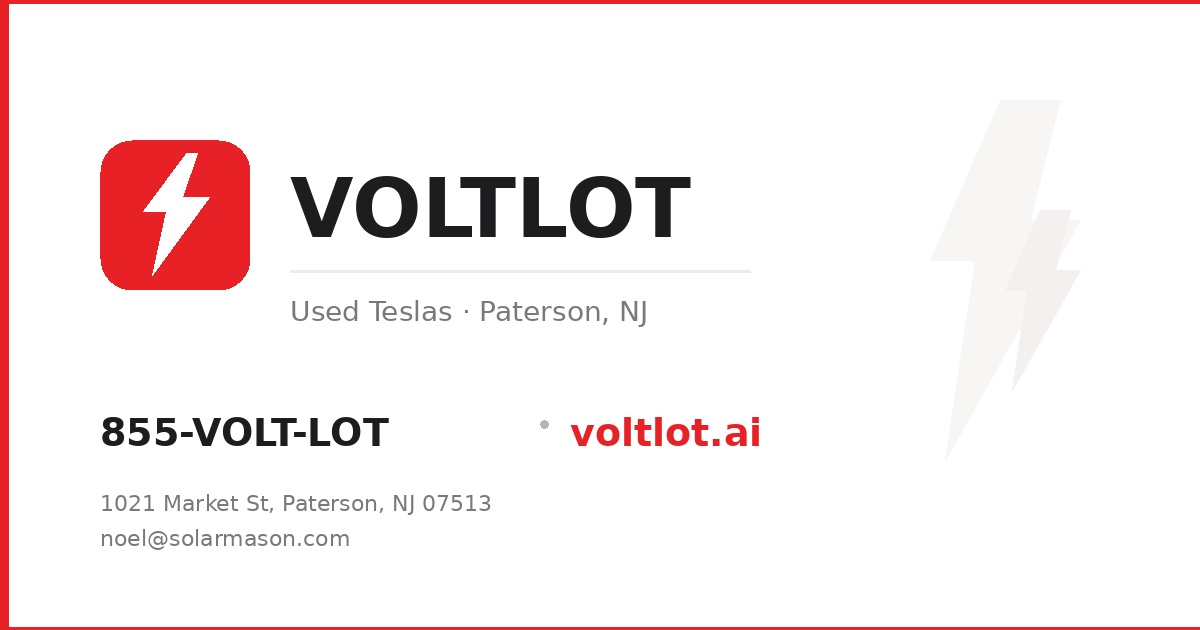
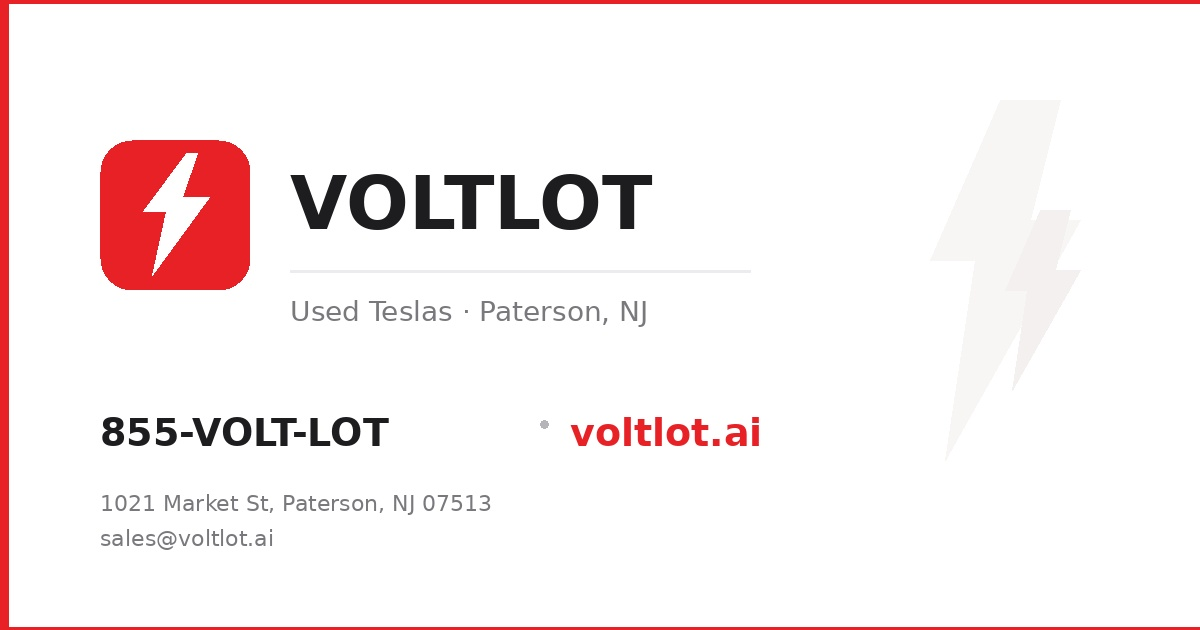
Add files via upload

Changed region(s): [[0.2467, 0.2714, 0.5858, 0.3921], [0.0617, 0.8444, 0.3083, 0.8746]]

diff --git a/404.html b/404.html
@@ -64,7 +64,7 @@
   "image": "https://voltlot.ai/og-image.jpg",
   "description": "NJ's largest used Tesla dealer. 60 battery-verified Teslas under $30K with Free Supercharging models available.",
   "telephone": "+1-855-865-8568",
-  "email": "noel@solarmason.com",
+  "email": "sales@voltlot.ai",
   "address": {
     "@type": "PostalAddress",
     "streetAddress": "1021 Market St",
@@ -897,7 +897,7 @@ input,textarea,select{font:inherit;color:inherit;background:transparent;border:0
           </button>
 
           <div style="font-size:11px;color:var(--text-3);text-align:center;line-height:1.6;padding-bottom:20px">
-            Your info goes directly to <strong style="color:var(--text)">noel@solarmason.com</strong>. Noel calls you within 2 hours with a firm number. Free pickup within 100 mi of Paterson.
+            Your info goes directly to <strong style="color:var(--text)">sales@voltlot.ai</strong>. Noel calls you within 2 hours with a firm number. Free pickup within 100 mi of Paterson.
           </div>
         </div>
 
@@ -1071,7 +1071,7 @@ input,textarea,select{font:inherit;color:inherit;background:transparent;border:0
           <div class="list-group">
             <a href="tel:8558658568" class="list-item" style="text-decoration:none;color:inherit"><div class="ico" style="background:var(--good)"><svg viewBox="0 0 16 16" fill="none" stroke="currentColor" stroke-width="2" stroke-linecap="round" stroke-linejoin="round"><path d="M3 3a1.5 1.5 0 011.5-1.5h1l1.5 3.5-2 1a8 8 0 004 4l1-2 3.5 1.5v1A1.5 1.5 0 0112 12 10 10 0 013 3z"/></svg></div><div class="t">Call 855-VOLT-LOT</div><div style="font-size:11px;color:var(--text-3)">Mon–Sat 9am–7pm</div></a>
             <a href="sms:8558658568" class="list-item" style="text-decoration:none;color:inherit"><div class="ico" style="background:var(--blue)"><svg viewBox="0 0 16 16" fill="none" stroke="currentColor" stroke-width="2" stroke-linecap="round" stroke-linejoin="round"><path d="M2 4a2 2 0 012-2h8a2 2 0 012 2v5a2 2 0 01-2 2H6l-3 3v-3H4a2 2 0 01-2-2V4z"/><path d="M5 6h6M5 9h3"/></svg></div><div class="t">Text us</div><div style="font-size:11px;color:var(--text-3)">Quick questions</div></a>
-            <a href="mailto:noel@solarmason.com" class="list-item" style="text-decoration:none;color:inherit"><div class="ico" style="background:#FF9F0A"><svg viewBox="0 0 16 16" fill="none" stroke="currentColor" stroke-width="2" stroke-linecap="round" stroke-linejoin="round"><rect x="2" y="3" width="12" height="10" rx="1.5"/><path d="M2 3l6 5 6-5"/></svg></div><div class="t">Email noel@solarmason.com</div><div class="chev"><svg viewBox="0 0 10 10" fill="none" stroke="currentColor" stroke-width="2"><path d="M3 1l4 4-4 4"/></svg></div></a>
+            <a href="mailto:sales@voltlot.ai" class="list-item" style="text-decoration:none;color:inherit"><div class="ico" style="background:#FF9F0A"><svg viewBox="0 0 16 16" fill="none" stroke="currentColor" stroke-width="2" stroke-linecap="round" stroke-linejoin="round"><rect x="2" y="3" width="12" height="10" rx="1.5"/><path d="M2 3l6 5 6-5"/></svg></div><div class="t">Email sales@voltlot.ai</div><div class="chev"><svg viewBox="0 0 10 10" fill="none" stroke="currentColor" stroke-width="2"><path d="M3 1l4 4-4 4"/></svg></div></a>
             <div class="list-item" onclick="openChat()"><div class="ico" style="background:var(--volt)"><svg viewBox="0 0 16 16" fill="none" stroke="#001922" stroke-width="2" stroke-linecap="round" stroke-linejoin="round"><path d="M2 4a2 2 0 012-2h8a2 2 0 012 2v5a2 2 0 01-2 2H6l-3 3v-3H4a2 2 0 01-2-2V4z"/></svg></div><div class="t">Live chat</div><div style="font-size:11px;color:var(--good);font-weight:600">Online now</div></div>
             <a href="https://maps.apple.com/?address=1021+Market+St,+Paterson,+NJ+07513" class="list-item" style="text-decoration:none;color:inherit"><div class="ico" style="background:#5E5CE6"><svg viewBox="0 0 16 16" fill="none" stroke="currentColor" stroke-width="2" stroke-linecap="round" stroke-linejoin="round"><path d="M8 1C5 1 3 3.5 3 6.5S8 15 8 15s5-5.5 5-8.5S11 1 8 1z"/><circle cx="8" cy="6.5" r="2"/></svg></div><div class="t">Get directions</div><div style="font-size:11px;color:var(--text-3)">1021 Market St, Paterson NJ</div></a>
           </div>
@@ -1090,7 +1090,7 @@ input,textarea,select{font:inherit;color:inherit;background:transparent;border:0
             <div style="padding:14px 16px;display:grid;gap:10px;font-size:13px">
               <div style="display:flex;justify-content:space-between;align-items:center"><span style="color:var(--text-3)">Address</span><span style="font-weight:600;text-align:right">1021 Market St<br>Paterson, NJ 07513</span></div>
               <div style="display:flex;justify-content:space-between"><span style="color:var(--text-3)">Phone</span><a href="tel:8558658568" style="font-weight:600;color:var(--brand-2)">855-VOLT-LOT</a></div>
-              <div style="display:flex;justify-content:space-between"><span style="color:var(--text-3)">Email</span><a href="mailto:noel@solarmason.com" style="font-weight:600;color:var(--brand-2)">noel@solarmason.com</a></div>
+              <div style="display:flex;justify-content:space-between"><span style="color:var(--text-3)">Email</span><a href="mailto:sales@voltlot.ai" style="font-weight:600;color:var(--brand-2)">sales@voltlot.ai</a></div>
               <div style="display:flex;justify-content:space-between"><span style="color:var(--text-3)">Hours</span><span style="font-weight:600;text-align:right">Mon–Sat 9am–7pm<br>Sun by appointment</span></div>
               <div style="display:flex;justify-content:space-between"><span style="color:var(--text-3)">In stock</span><span style="font-weight:600">60 Teslas</span></div>
             </div>
@@ -1105,7 +1105,7 @@ input,textarea,select{font:inherit;color:inherit;background:transparent;border:0
 
         <div style="text-align:center;padding:18px 18px 30px;color:var(--text-3);font-size:11px;line-height:1.7">
           <span onclick="adminTap()" style="cursor:default">VOLTLOT v5.1</span> · <span id="inv-count-footer">60</span> Teslas · All Under $30K<br>
-          <a href="tel:8558658568" style="color:var(--brand-2);font-weight:600">855-VOLT-LOT</a> · <a href="mailto:noel@solarmason.com" style="color:var(--brand-2);font-weight:600">noel@solarmason.com</a>
+          <a href="tel:8558658568" style="color:var(--brand-2);font-weight:600">855-VOLT-LOT</a> · <a href="mailto:sales@voltlot.ai" style="color:var(--brand-2);font-weight:600">sales@voltlot.ai</a>
         </div>
       </section>
 
@@ -2134,7 +2134,7 @@ function submitTradeIn(){
   const titleLine=[d.year,d.make,d.model,d.trim].filter(Boolean).join(' ');
   const subj=encodeURIComponent('Trade-In Request · '+titleLine);
   const body=encodeURIComponent('TRADE-IN REQUEST — VOLTLOT\n\nVEHICLE (NHTSA decoded):\n'+titleLine+'\nVIN: '+d.vin+'\nBody: '+(d.body||'—')+'\nDrive: '+(d.drive||'—')+'\nFuel: '+(d.fuel||'—')+'\n\nCONDITION:\nMileage: '+miles+'\nCondition: '+TRADE_STATE.condition+'\nPayoff: '+(TRADE_STATE.payoff||'—')+(payoffVal?' ($'+payoffVal+')':'')+'\nPhotos: '+TRADE_STATE.photoCount+'/4\n\nCUSTOMER:\nName: '+name+'\nPhone: '+phone+'\nEmail: '+(email||'—')+'\n\nSOURCE: VOLTLOT app · '+new Date().toISOString());
-  window.location.href='mailto:noel@solarmason.com?subject='+subj+'&body='+body;
+  window.location.href='mailto:sales@voltlot.ai?subject='+subj+'&body='+body;
   const r=document.getElementById('trade-result');r.classList.remove('hide');
   r.innerHTML=`<div style="padding:24px;background:var(--surface);border:1px solid var(--hairline);border-radius:18px;text-align:center"><div style="width:64px;height:64px;border-radius:50%;margin:0 auto 16px;background:linear-gradient(135deg,var(--good),#1A7A30);display:grid;place-items:center"><svg viewBox="0 0 32 32" width="32" height="32" fill="none" stroke="#fff" stroke-width="3.5" stroke-linecap="round"><path d="M8 16l6 6 12-12"/></svg></div><h2 style="font-size:20px;font-weight:800;margin-bottom:6px">Trade-in submitted!</h2><p style="font-size:14px;color:var(--text-2);line-height:1.55;max-width:300px;margin:0 auto 16px"><strong style="color:var(--text)">${titleLine}</strong><br>${miles} mi · ${TRADE_STATE.condition}</p><div style="display:grid;gap:4px;font-size:12px;color:var(--text-2);text-align:left;max-width:280px;margin:0 auto 16px"><div style="display:flex;gap:8px"><span style="color:var(--good)">✓</span> Email opened — tap Send</div><div style="display:flex;gap:8px"><span style="color:var(--text-3)">○</span> Noel calls within 2 hours</div><div style="display:flex;gap:8px"><span style="color:var(--text-3)">○</span> Free pickup within 100 mi</div></div><div style="display:grid;grid-template-columns:1fr 1fr;gap:8px"><a href="tel:8558658568" style="display:flex;align-items:center;justify-content:center;gap:6px;padding:13px;border-radius:12px;background:var(--brand);color:#fff;font-weight:700;font-size:13px;text-decoration:none">Call now</a><button onclick="switchTab('browse')" style="padding:13px;border-radius:12px;background:var(--surface-2);border:1px solid var(--hairline);font-weight:700;font-size:13px;color:var(--text);cursor:pointer">Browse Teslas</button></div></div>`;
   document.getElementById('view-trade').scrollTo({top:r.offsetTop-20,behavior:'smooth'});
@@ -2641,7 +2641,7 @@ Payoff: ${BOOKING.tradePayoff}${BOOKING.tradePayoffAmount?' ($'+BOOKING.tradePay
 SOURCE: VOLTLOT app · ${new Date().toISOString()}`);
 
   // Open mailto — this pops the user's email app with everything pre-filled
-  window.location.href=`mailto:noel@solarmason.com?subject=${subj}&body=${body}`;
+  window.location.href=`mailto:sales@voltlot.ai?subject=${subj}&body=${body}`;
 
   clearBookingDraft();
   BOOKING.step=8;
@@ -2657,7 +2657,7 @@ function bookResendEmail(){
   const prettyDate=d.toLocaleDateString('en',{weekday:'long',month:'long',day:'numeric',year:'numeric'});
   const subj=encodeURIComponent(`New Test Drive · ${c.year} ${c.model} · Stock #${c.stock}`);
   const body=encodeURIComponent(`CUSTOMER: ${BOOKING.firstName} ${BOOKING.lastName}\nPhone: ${BOOKING.phone}\nEmail: ${BOOKING.email}\n\nBOOKING\nVehicle: ${c.year} ${c.model} ${c.trim} (Stock #${c.stock})\nDate/Time: ${prettyDate} at ${BOOKING.time}\nLocation: ${BOOKING.location==='lot'?'Paterson lot':'Delivery'}\n\nSOURCE: VOLTLOT app · resend`);
-  window.location.href=`mailto:noel@solarmason.com?subject=${subj}&body=${body}`;
+  window.location.href=`mailto:sales@voltlot.ai?subject=${subj}&body=${body}`;
   toast('Email re-opened');
 }
 
@@ -2719,7 +2719,7 @@ SOURCE: VOLTLOT app · ${new Date().toISOString()}`;
 
       <details style="background:var(--surface-2);border:1px solid var(--hairline);border-radius:12px;padding:0;margin-bottom:12px;text-align:left">
         <summary style="padding:12px 14px;font-size:13px;font-weight:600;cursor:pointer;list-style:none;display:flex;justify-content:space-between;align-items:center">Preview what the sales team got <span style="color:var(--text-3);font-size:11px">tap to expand</span></summary>
-        <div style="padding:4px 14px 14px;font-family:var(--ff-mono);font-size:10.5px;color:var(--text-2);line-height:1.6;white-space:pre-wrap;border-top:1px solid var(--hairline);padding-top:10px">To: noel@solarmason.com
+        <div style="padding:4px 14px 14px;font-family:var(--ff-mono);font-size:10.5px;color:var(--text-2);line-height:1.6;white-space:pre-wrap;border-top:1px solid var(--hairline);padding-top:10px">To: sales@voltlot.ai
 Subject: ${emailSubj}
 
 ${emailBody}</div>
@@ -2840,7 +2840,7 @@ ${BOOKING.hasTrade?`<h2>Trade-In</h2>
 
 <div class="footer">
   <strong>VOLTLOT</strong> · 1021 Market St, Paterson, NJ 07513<br>
-  855-VOLT-LOT (855-865-8568) · noel@solarmason.com<br>
+  855-VOLT-LOT (855-865-8568) · sales@voltlot.ai<br>
   Bring your driver's license to the test drive.
 </div>
 

diff --git a/index.html b/index.html
@@ -64,7 +64,7 @@
   "image": "https://voltlot.ai/og-image.jpg",
   "description": "NJ's largest used Tesla dealer. 60 battery-verified Teslas under $30K with Free Supercharging models available.",
   "telephone": "+1-855-865-8568",
-  "email": "noel@solarmason.com",
+  "email": "sales@voltlot.ai",
   "address": {
     "@type": "PostalAddress",
     "streetAddress": "1021 Market St",
@@ -897,7 +897,7 @@ input,textarea,select{font:inherit;color:inherit;background:transparent;border:0
           </button>
 
           <div style="font-size:11px;color:var(--text-3);text-align:center;line-height:1.6;padding-bottom:20px">
-            Your info goes directly to <strong style="color:var(--text)">noel@solarmason.com</strong>. Noel calls you within 2 hours with a firm number. Free pickup within 100 mi of Paterson.
+            Your info goes directly to <strong style="color:var(--text)">sales@voltlot.ai</strong>. Noel calls you within 2 hours with a firm number. Free pickup within 100 mi of Paterson.
           </div>
         </div>
 
@@ -1071,7 +1071,7 @@ input,textarea,select{font:inherit;color:inherit;background:transparent;border:0
           <div class="list-group">
             <a href="tel:8558658568" class="list-item" style="text-decoration:none;color:inherit"><div class="ico" style="background:var(--good)"><svg viewBox="0 0 16 16" fill="none" stroke="currentColor" stroke-width="2" stroke-linecap="round" stroke-linejoin="round"><path d="M3 3a1.5 1.5 0 011.5-1.5h1l1.5 3.5-2 1a8 8 0 004 4l1-2 3.5 1.5v1A1.5 1.5 0 0112 12 10 10 0 013 3z"/></svg></div><div class="t">Call 855-VOLT-LOT</div><div style="font-size:11px;color:var(--text-3)">Mon–Sat 9am–7pm</div></a>
             <a href="sms:8558658568" class="list-item" style="text-decoration:none;color:inherit"><div class="ico" style="background:var(--blue)"><svg viewBox="0 0 16 16" fill="none" stroke="currentColor" stroke-width="2" stroke-linecap="round" stroke-linejoin="round"><path d="M2 4a2 2 0 012-2h8a2 2 0 012 2v5a2 2 0 01-2 2H6l-3 3v-3H4a2 2 0 01-2-2V4z"/><path d="M5 6h6M5 9h3"/></svg></div><div class="t">Text us</div><div style="font-size:11px;color:var(--text-3)">Quick questions</div></a>
-            <a href="mailto:noel@solarmason.com" class="list-item" style="text-decoration:none;color:inherit"><div class="ico" style="background:#FF9F0A"><svg viewBox="0 0 16 16" fill="none" stroke="currentColor" stroke-width="2" stroke-linecap="round" stroke-linejoin="round"><rect x="2" y="3" width="12" height="10" rx="1.5"/><path d="M2 3l6 5 6-5"/></svg></div><div class="t">Email noel@solarmason.com</div><div class="chev"><svg viewBox="0 0 10 10" fill="none" stroke="currentColor" stroke-width="2"><path d="M3 1l4 4-4 4"/></svg></div></a>
+            <a href="mailto:sales@voltlot.ai" class="list-item" style="text-decoration:none;color:inherit"><div class="ico" style="background:#FF9F0A"><svg viewBox="0 0 16 16" fill="none" stroke="currentColor" stroke-width="2" stroke-linecap="round" stroke-linejoin="round"><rect x="2" y="3" width="12" height="10" rx="1.5"/><path d="M2 3l6 5 6-5"/></svg></div><div class="t">Email sales@voltlot.ai</div><div class="chev"><svg viewBox="0 0 10 10" fill="none" stroke="currentColor" stroke-width="2"><path d="M3 1l4 4-4 4"/></svg></div></a>
             <div class="list-item" onclick="openChat()"><div class="ico" style="background:var(--volt)"><svg viewBox="0 0 16 16" fill="none" stroke="#001922" stroke-width="2" stroke-linecap="round" stroke-linejoin="round"><path d="M2 4a2 2 0 012-2h8a2 2 0 012 2v5a2 2 0 01-2 2H6l-3 3v-3H4a2 2 0 01-2-2V4z"/></svg></div><div class="t">Live chat</div><div style="font-size:11px;color:var(--good);font-weight:600">Online now</div></div>
             <a href="https://maps.apple.com/?address=1021+Market+St,+Paterson,+NJ+07513" class="list-item" style="text-decoration:none;color:inherit"><div class="ico" style="background:#5E5CE6"><svg viewBox="0 0 16 16" fill="none" stroke="currentColor" stroke-width="2" stroke-linecap="round" stroke-linejoin="round"><path d="M8 1C5 1 3 3.5 3 6.5S8 15 8 15s5-5.5 5-8.5S11 1 8 1z"/><circle cx="8" cy="6.5" r="2"/></svg></div><div class="t">Get directions</div><div style="font-size:11px;color:var(--text-3)">1021 Market St, Paterson NJ</div></a>
           </div>
@@ -1090,7 +1090,7 @@ input,textarea,select{font:inherit;color:inherit;background:transparent;border:0
             <div style="padding:14px 16px;display:grid;gap:10px;font-size:13px">
               <div style="display:flex;justify-content:space-between;align-items:center"><span style="color:var(--text-3)">Address</span><span style="font-weight:600;text-align:right">1021 Market St<br>Paterson, NJ 07513</span></div>
               <div style="display:flex;justify-content:space-between"><span style="color:var(--text-3)">Phone</span><a href="tel:8558658568" style="font-weight:600;color:var(--brand-2)">855-VOLT-LOT</a></div>
-              <div style="display:flex;justify-content:space-between"><span style="color:var(--text-3)">Email</span><a href="mailto:noel@solarmason.com" style="font-weight:600;color:var(--brand-2)">noel@solarmason.com</a></div>
+              <div style="display:flex;justify-content:space-between"><span style="color:var(--text-3)">Email</span><a href="mailto:sales@voltlot.ai" style="font-weight:600;color:var(--brand-2)">sales@voltlot.ai</a></div>
               <div style="display:flex;justify-content:space-between"><span style="color:var(--text-3)">Hours</span><span style="font-weight:600;text-align:right">Mon–Sat 9am–7pm<br>Sun by appointment</span></div>
               <div style="display:flex;justify-content:space-between"><span style="color:var(--text-3)">In stock</span><span style="font-weight:600">60 Teslas</span></div>
             </div>
@@ -1105,7 +1105,7 @@ input,textarea,select{font:inherit;color:inherit;background:transparent;border:0
 
         <div style="text-align:center;padding:18px 18px 30px;color:var(--text-3);font-size:11px;line-height:1.7">
           <span onclick="adminTap()" style="cursor:default">VOLTLOT v5.1</span> · <span id="inv-count-footer">60</span> Teslas · All Under $30K<br>
-          <a href="tel:8558658568" style="color:var(--brand-2);font-weight:600">855-VOLT-LOT</a> · <a href="mailto:noel@solarmason.com" style="color:var(--brand-2);font-weight:600">noel@solarmason.com</a>
+          <a href="tel:8558658568" style="color:var(--brand-2);font-weight:600">855-VOLT-LOT</a> · <a href="mailto:sales@voltlot.ai" style="color:var(--brand-2);font-weight:600">sales@voltlot.ai</a>
         </div>
       </section>
 
@@ -2134,7 +2134,7 @@ function submitTradeIn(){
   const titleLine=[d.year,d.make,d.model,d.trim].filter(Boolean).join(' ');
   const subj=encodeURIComponent('Trade-In Request · '+titleLine);
   const body=encodeURIComponent('TRADE-IN REQUEST — VOLTLOT\n\nVEHICLE (NHTSA decoded):\n'+titleLine+'\nVIN: '+d.vin+'\nBody: '+(d.body||'—')+'\nDrive: '+(d.drive||'—')+'\nFuel: '+(d.fuel||'—')+'\n\nCONDITION:\nMileage: '+miles+'\nCondition: '+TRADE_STATE.condition+'\nPayoff: '+(TRADE_STATE.payoff||'—')+(payoffVal?' ($'+payoffVal+')':'')+'\nPhotos: '+TRADE_STATE.photoCount+'/4\n\nCUSTOMER:\nName: '+name+'\nPhone: '+phone+'\nEmail: '+(email||'—')+'\n\nSOURCE: VOLTLOT app · '+new Date().toISOString());
-  window.location.href='mailto:noel@solarmason.com?subject='+subj+'&body='+body;
+  window.location.href='mailto:sales@voltlot.ai?subject='+subj+'&body='+body;
   const r=document.getElementById('trade-result');r.classList.remove('hide');
   r.innerHTML=`<div style="padding:24px;background:var(--surface);border:1px solid var(--hairline);border-radius:18px;text-align:center"><div style="width:64px;height:64px;border-radius:50%;margin:0 auto 16px;background:linear-gradient(135deg,var(--good),#1A7A30);display:grid;place-items:center"><svg viewBox="0 0 32 32" width="32" height="32" fill="none" stroke="#fff" stroke-width="3.5" stroke-linecap="round"><path d="M8 16l6 6 12-12"/></svg></div><h2 style="font-size:20px;font-weight:800;margin-bottom:6px">Trade-in submitted!</h2><p style="font-size:14px;color:var(--text-2);line-height:1.55;max-width:300px;margin:0 auto 16px"><strong style="color:var(--text)">${titleLine}</strong><br>${miles} mi · ${TRADE_STATE.condition}</p><div style="display:grid;gap:4px;font-size:12px;color:var(--text-2);text-align:left;max-width:280px;margin:0 auto 16px"><div style="display:flex;gap:8px"><span style="color:var(--good)">✓</span> Email opened — tap Send</div><div style="display:flex;gap:8px"><span style="color:var(--text-3)">○</span> Noel calls within 2 hours</div><div style="display:flex;gap:8px"><span style="color:var(--text-3)">○</span> Free pickup within 100 mi</div></div><div style="display:grid;grid-template-columns:1fr 1fr;gap:8px"><a href="tel:8558658568" style="display:flex;align-items:center;justify-content:center;gap:6px;padding:13px;border-radius:12px;background:var(--brand);color:#fff;font-weight:700;font-size:13px;text-decoration:none">Call now</a><button onclick="switchTab('browse')" style="padding:13px;border-radius:12px;background:var(--surface-2);border:1px solid var(--hairline);font-weight:700;font-size:13px;color:var(--text);cursor:pointer">Browse Teslas</button></div></div>`;
   document.getElementById('view-trade').scrollTo({top:r.offsetTop-20,behavior:'smooth'});
@@ -2641,7 +2641,7 @@ Payoff: ${BOOKING.tradePayoff}${BOOKING.tradePayoffAmount?' ($'+BOOKING.tradePay
 SOURCE: VOLTLOT app · ${new Date().toISOString()}`);
 
   // Open mailto — this pops the user's email app with everything pre-filled
-  window.location.href=`mailto:noel@solarmason.com?subject=${subj}&body=${body}`;
+  window.location.href=`mailto:sales@voltlot.ai?subject=${subj}&body=${body}`;
 
   clearBookingDraft();
   BOOKING.step=8;
@@ -2657,7 +2657,7 @@ function bookResendEmail(){
   const prettyDate=d.toLocaleDateString('en',{weekday:'long',month:'long',day:'numeric',year:'numeric'});
   const subj=encodeURIComponent(`New Test Drive · ${c.year} ${c.model} · Stock #${c.stock}`);
   const body=encodeURIComponent(`CUSTOMER: ${BOOKING.firstName} ${BOOKING.lastName}\nPhone: ${BOOKING.phone}\nEmail: ${BOOKING.email}\n\nBOOKING\nVehicle: ${c.year} ${c.model} ${c.trim} (Stock #${c.stock})\nDate/Time: ${prettyDate} at ${BOOKING.time}\nLocation: ${BOOKING.location==='lot'?'Paterson lot':'Delivery'}\n\nSOURCE: VOLTLOT app · resend`);
-  window.location.href=`mailto:noel@solarmason.com?subject=${subj}&body=${body}`;
+  window.location.href=`mailto:sales@voltlot.ai?subject=${subj}&body=${body}`;
   toast('Email re-opened');
 }
 
@@ -2719,7 +2719,7 @@ SOURCE: VOLTLOT app · ${new Date().toISOString()}`;
 
       <details style="background:var(--surface-2);border:1px solid var(--hairline);border-radius:12px;padding:0;margin-bottom:12px;text-align:left">
         <summary style="padding:12px 14px;font-size:13px;font-weight:600;cursor:pointer;list-style:none;display:flex;justify-content:space-between;align-items:center">Preview what the sales team got <span style="color:var(--text-3);font-size:11px">tap to expand</span></summary>
-        <div style="padding:4px 14px 14px;font-family:var(--ff-mono);font-size:10.5px;color:var(--text-2);line-height:1.6;white-space:pre-wrap;border-top:1px solid var(--hairline);padding-top:10px">To: noel@solarmason.com
+        <div style="padding:4px 14px 14px;font-family:var(--ff-mono);font-size:10.5px;color:var(--text-2);line-height:1.6;white-space:pre-wrap;border-top:1px solid var(--hairline);padding-top:10px">To: sales@voltlot.ai
 Subject: ${emailSubj}
 
 ${emailBody}</div>
@@ -2840,7 +2840,7 @@ ${BOOKING.hasTrade?`<h2>Trade-In</h2>
 
 <div class="footer">
   <strong>VOLTLOT</strong> · 1021 Market St, Paterson, NJ 07513<br>
-  855-VOLT-LOT (855-865-8568) · noel@solarmason.com<br>
+  855-VOLT-LOT (855-865-8568) · sales@voltlot.ai<br>
   Bring your driver's license to the test drive.
 </div>
 
